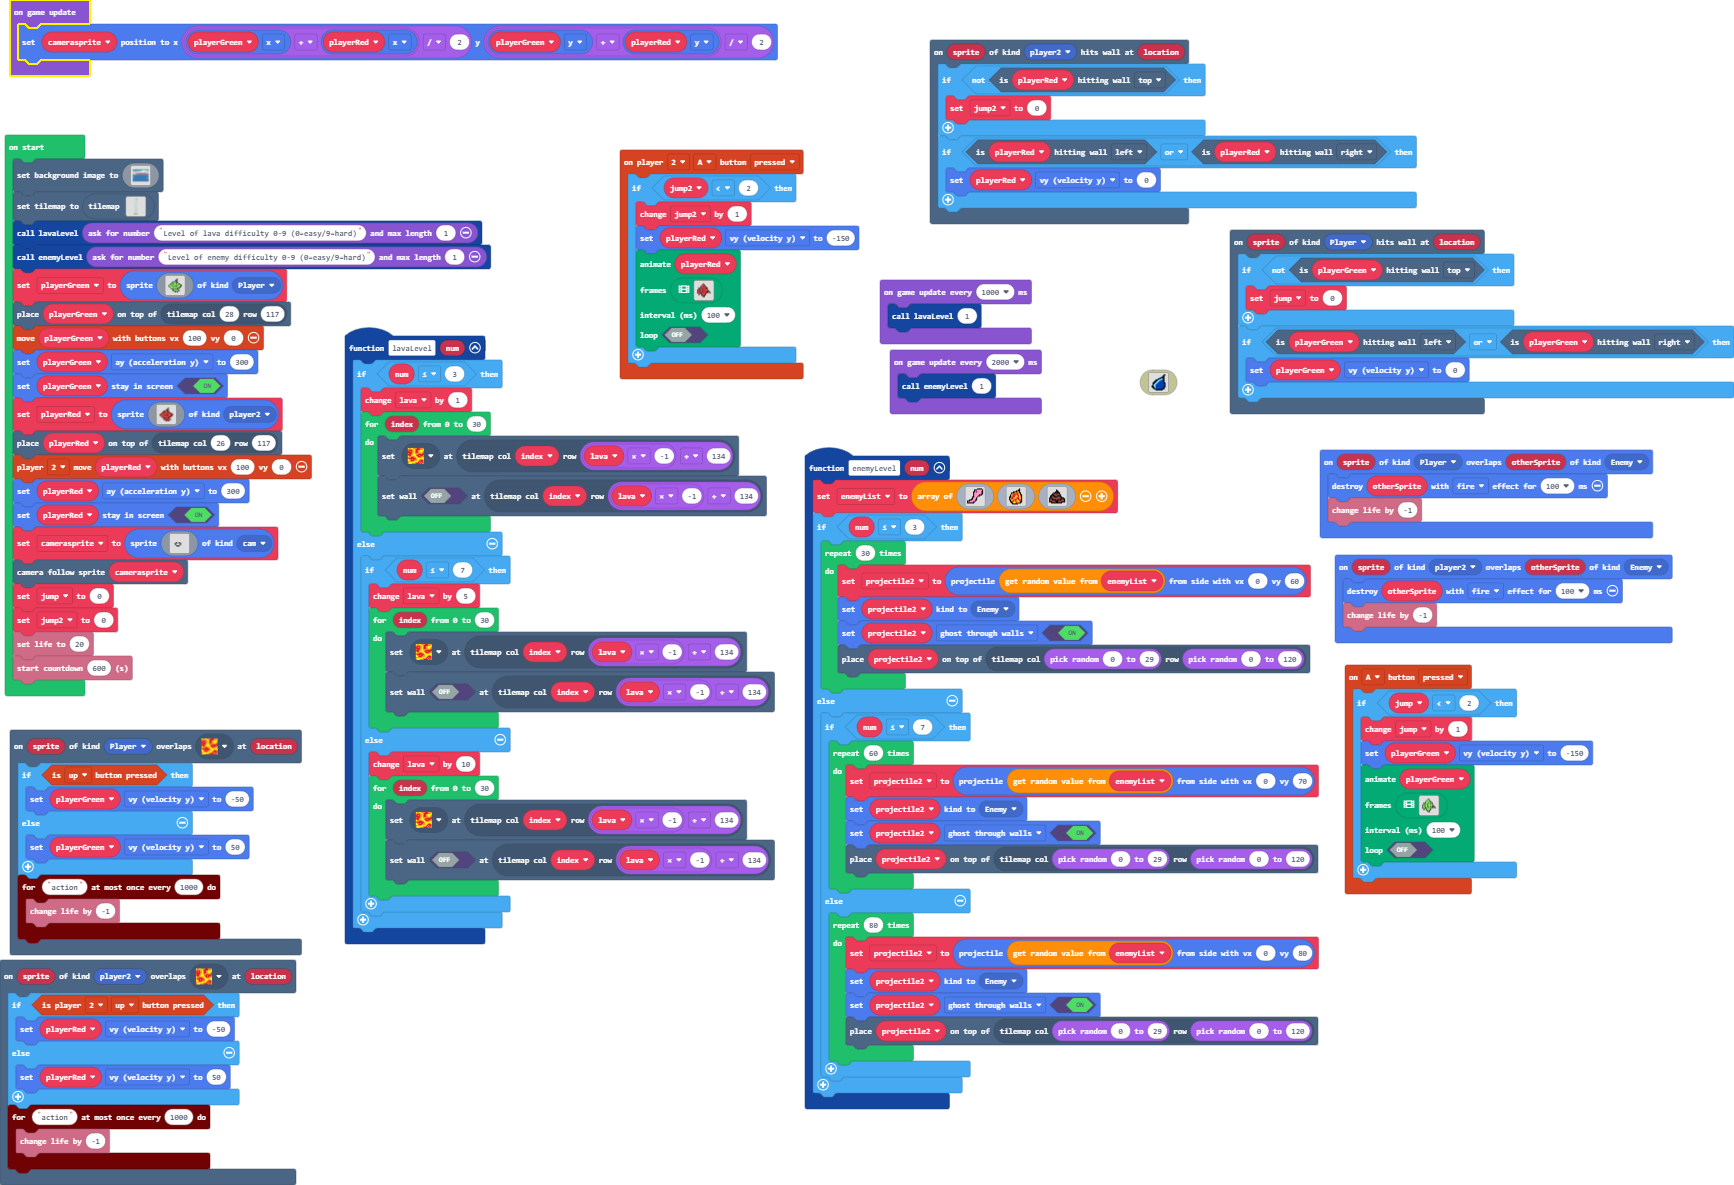
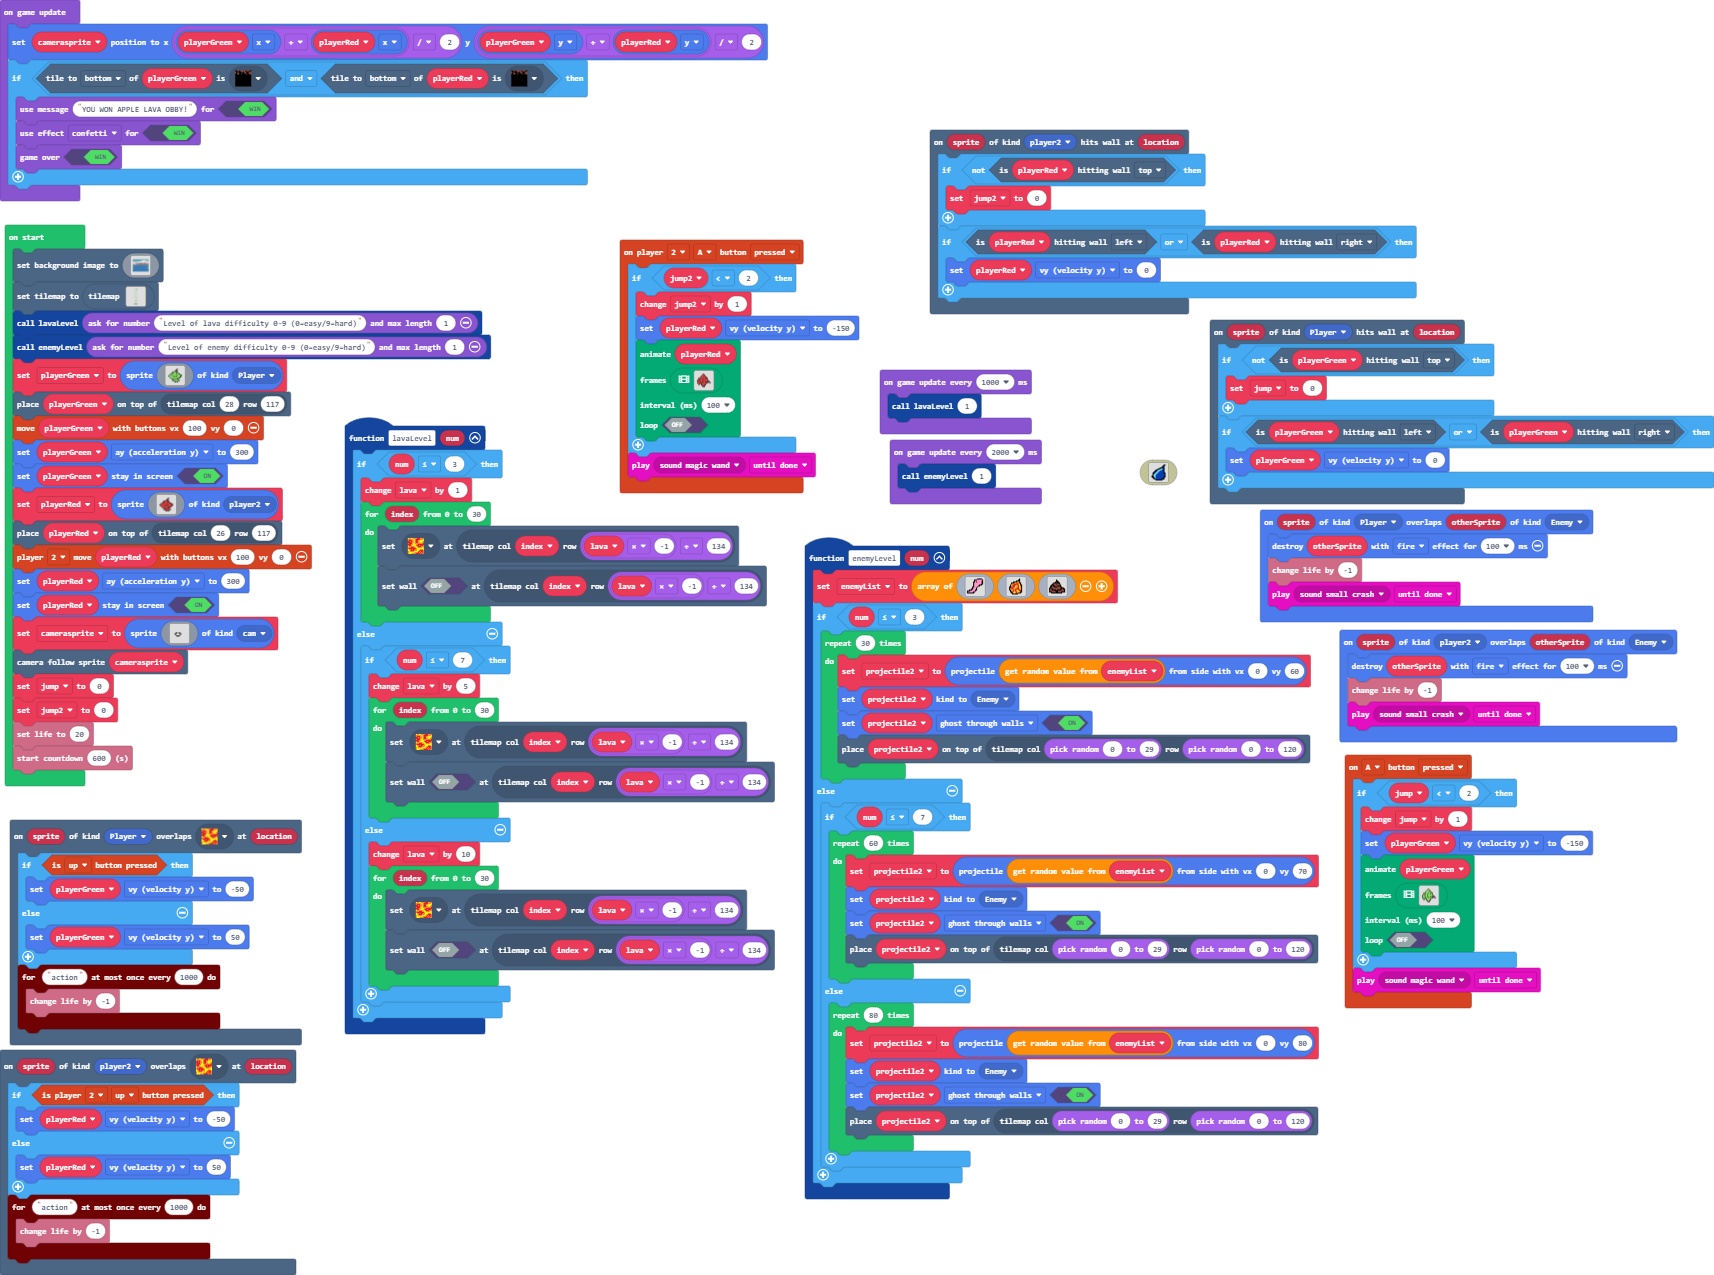
Update main.blocks, main.ts

diff --git a/main.ts b/main.ts
@@ -74,6 +74,7 @@ scene.onHitWall(SpriteKind.Player, function (sprite, location) {
 sprites.onOverlap(SpriteKind.player2, SpriteKind.Enemy, function (sprite, otherSprite) {
     sprites.destroy(otherSprite, effects.fire, 100)
     info.changeLifeBy(-1)
+    music.play(music.melodyPlayable(music.smallCrash), music.PlaybackMode.UntilDone)
 })
 controller.A.onEvent(ControllerButtonEvent.Pressed, function () {
     if (jump < 2) {
@@ -146,6 +147,7 @@ controller.A.onEvent(ControllerButtonEvent.Pressed, function () {
         false
         )
     }
+    music.play(music.melodyPlayable(music.magicWand), music.PlaybackMode.UntilDone)
 })
 controller.player2.onButtonEvent(ControllerButton.A, ControllerButtonEvent.Pressed, function () {
     if (jump2 < 2) {
@@ -218,6 +220,7 @@ controller.player2.onButtonEvent(ControllerButton.A, ControllerButtonEvent.Press
         false
         )
     }
+    music.play(music.melodyPlayable(music.magicWand), music.PlaybackMode.UntilDone)
 })
 scene.onOverlapTile(SpriteKind.player2, sprites.dungeon.hazardLava1, function (sprite, location) {
     if (controller.player2.isPressed(ControllerButton.Up)) {
@@ -273,6 +276,7 @@ scene.onHitWall(SpriteKind.player2, function (sprite, location) {
 sprites.onOverlap(SpriteKind.Player, SpriteKind.Enemy, function (sprite, otherSprite) {
     sprites.destroy(otherSprite, effects.fire, 100)
     info.changeLifeBy(-1)
+    music.play(music.melodyPlayable(music.smallCrash), music.PlaybackMode.UntilDone)
 })
 let lava = 0
 let projectile2: Sprite = null
@@ -441,6 +445,11 @@ info.setLife(20)
 info.startCountdown(600)
 game.onUpdate(function () {
     camerasprite.setPosition((playerGreen.x + playerRed.x) / 2, (playerGreen.y + playerRed.y) / 2)
+    if (playerGreen.tileKindAt(TileDirection.Bottom, sprites.builtin.forestTiles6) && playerRed.tileKindAt(TileDirection.Bottom, sprites.builtin.forestTiles6)) {
+        game.setGameOverMessage(true, "YOU WON APPLE LAVA OBBY!")
+        game.setGameOverEffect(true, effects.confetti)
+        game.gameOver(true)
+    }
 })
 game.onUpdateInterval(2000, function () {
     enemyLevel(1)
